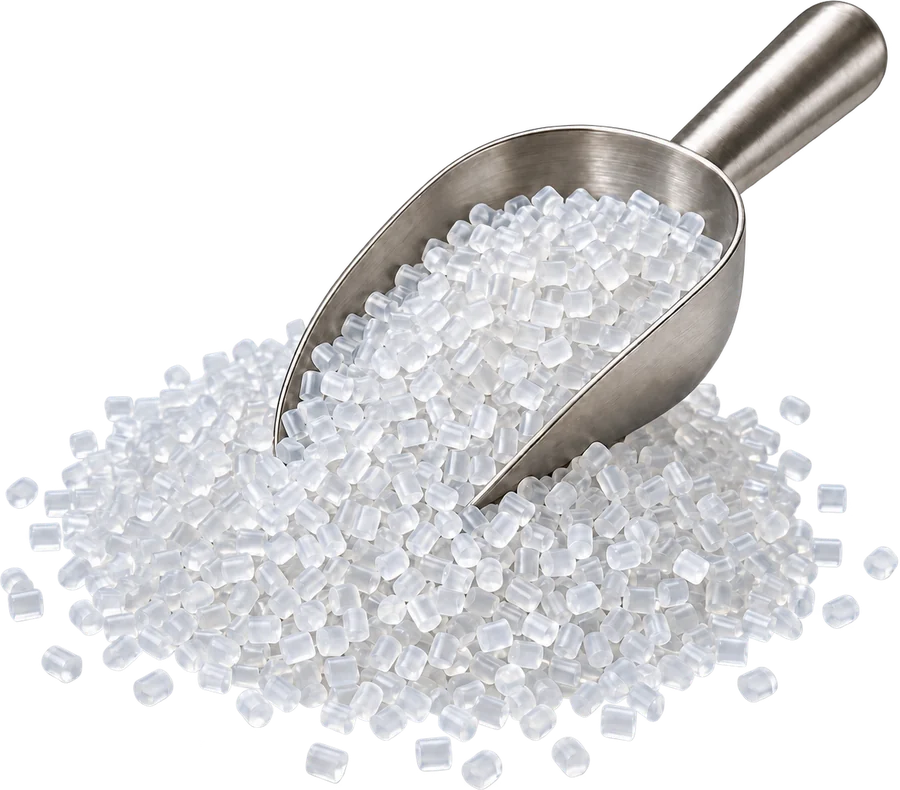
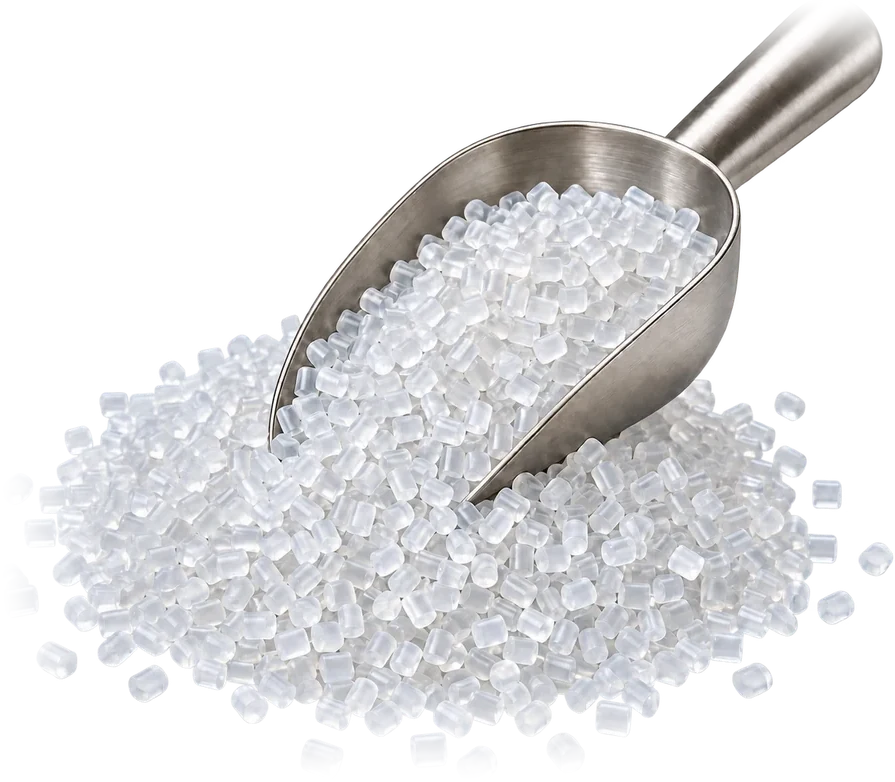
Üretim görsellerinin kesik kenarları yumuşatıldı
Firmadan gelen beş görselin dördünde makine kadrajdan taşıyor; görselin
kendisi böyle geldiği için kırpma ayarıyla düzelmiyordu. Kesilen kenarlar
yumuşak geçişle söndürüldü, ham dosyalar kaynak/kapak-uretim-ham içinde
saklandı. Kalıcı çözüm (tam kadrajlı yeni görsel ya da gerçek fotoğraf)
eksikler belgesine yazıldı.

diff --git a/migration/ICERIK-EKSIKLERI.md b/migration/ICERIK-EKSIKLERI.md
@@ -127,3 +127,9 @@ Sepete numune ekleyen düğmenin çalışması için Shopify'da bir "Ürün Numu
 - **Mağaza adresinin teyidi:** haritada kullanılan adres firmanın eski kaynaklarından derlendi, doğrulanmalı.
 - **Gösterilecek yorumlar:** firma hangi yorumların sitede görüneceğini seçmeli (yazan, puan, tarih, metin).
 - **Ziyaretçinin site üzerinden yorum yazması:** bir yorum uygulaması (ör. Judge.me) kurulmalı; tema hazır.
+
+## 16. Polikarbon üretim görsellerinin kadrajı
+
+Firmanın gönderdiği beş üretim görselinin dördünde makine kadrajdan taşıyor (sağ, sol ve alt kenarda kesiliyor); görselin kendisi böyle geldiği için kırpma ayarıyla düzelmiyor. Geçici çözüm olarak kesilen kenarlar yumuşak geçişle söndürüldü, böylece "yarım kalmış" gibi durmuyor. Ham dosyalar `kaynak/kapak-uretim-ham/` klasöründe duruyor.
+
+Kalıcı çözüm iki yoldan biri: (a) makinenin tamamı kadraja giren yeni görseller üretmek (kalıptan çıkış adımında bu yapıldı), (b) firmanın kendi hattından çekilmiş gerçek fotoğrafları kullanmak. Gerçek fotoğraf her zaman daha iyi olur; üretim hattından beş adımı gösteren fotoğraf gelirse bu görsellerin yerine konur.
